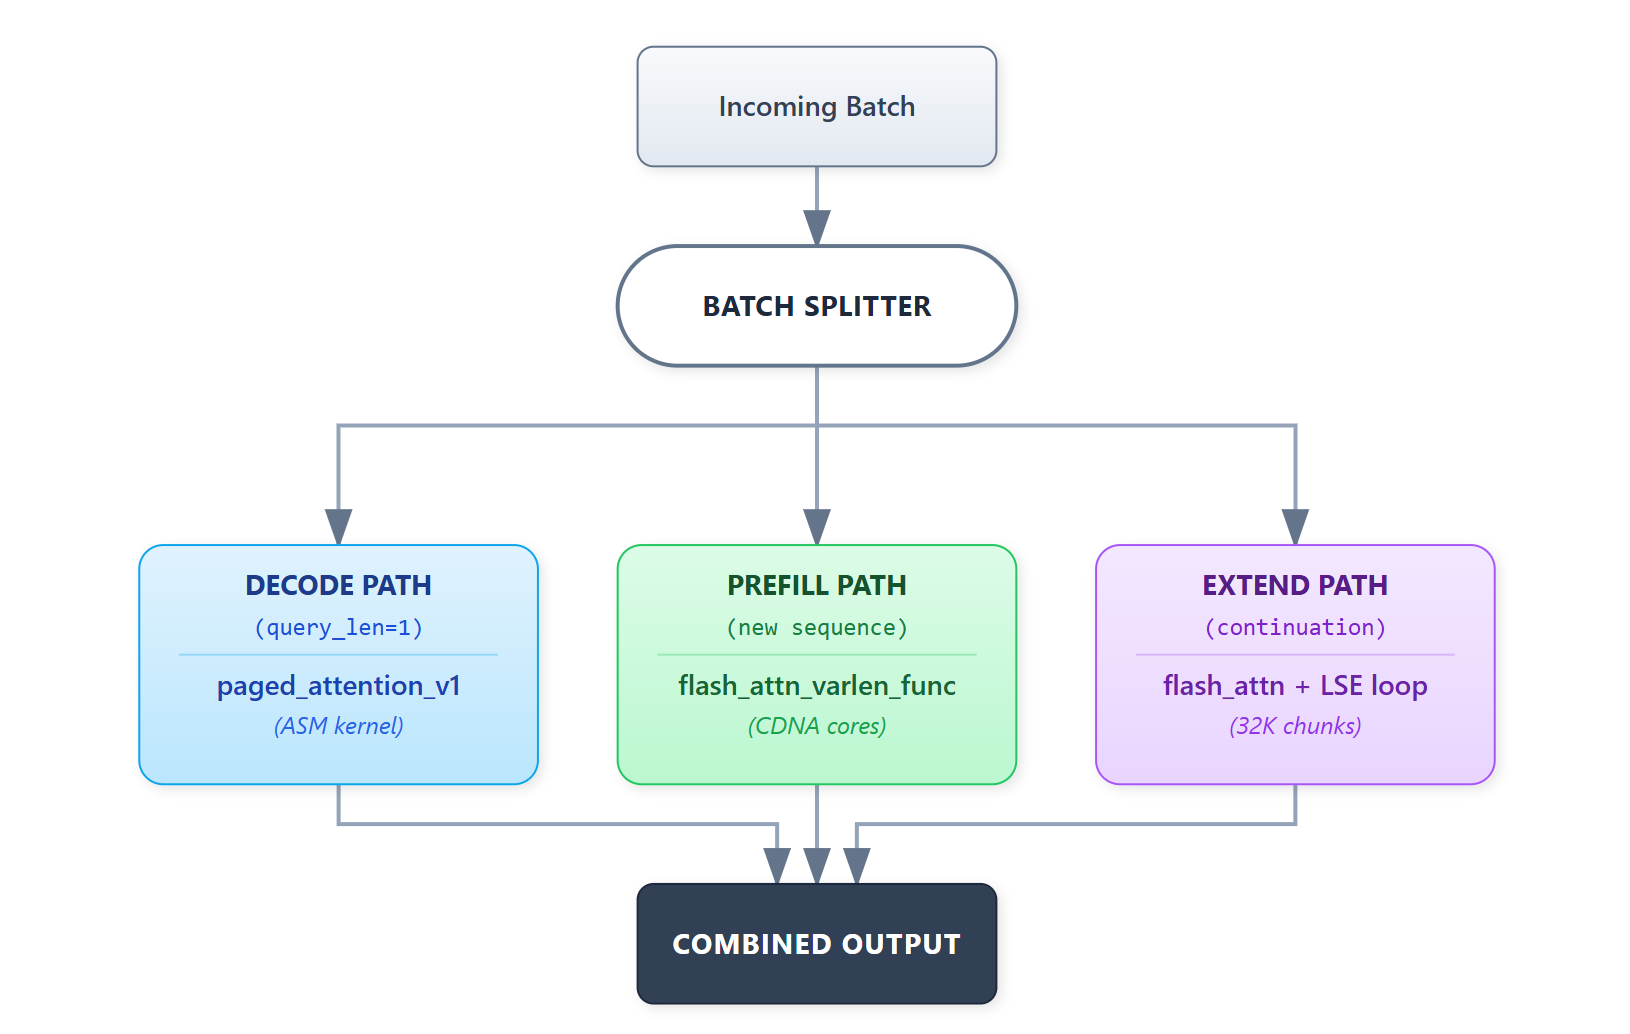
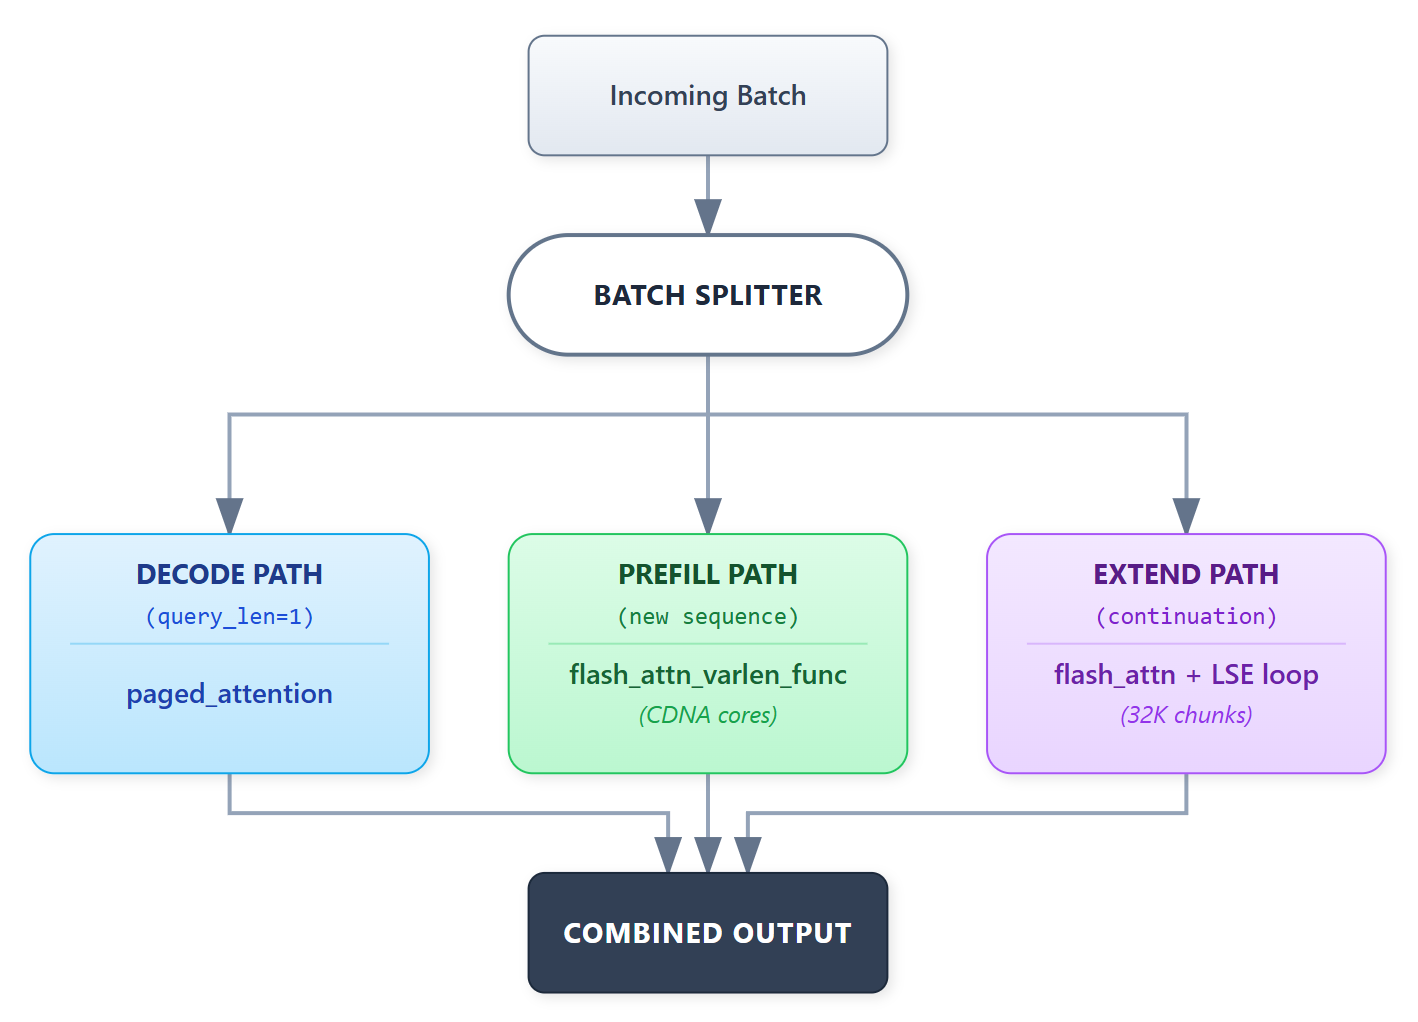
Update blog

diff --git a/_posts/2025-12-16-rocm-attention-backend.md b/_posts/2025-12-16-rocm-attention-backend.md
@@ -161,16 +161,18 @@ vLLM provides two AITER-based MLA backends with different prefill implementation
 | Backend                 | Prefill Kernel | Decode Kernel  |
 | ----------------------- | -------------- | -------------- |
 | `TRITON_MLA`            | vLLM Triton    | vLLM Triton    |
-| `ROCM_AITER_MLA`        | AITER Assembly | AITER Assembly |
-| `ROCM_AITER_TRITON_MLA` | AITER Triton   | AITER Assembly |
+| `ROCM_AITER_MLA`        | AITER MHA (CK on gfx942, ASM on gfx950) | AITER Assembly |
+| `ROCM_AITER_TRITON_MLA` | AITER Triton MHA | AITER Assembly |
 
-The base `TRITON_MLA` backend uses vLLM's default Triton kernels for both phases. The AITER backends replace the decode kernel with hand-tuned assembly (`mla_decode_fwd`), which is where most of the performance gain comes from. Between the two AITER backends, `ROCM_AITER_TRITON_MLA` uses Triton for prefill, offering better occupancy tuning flexibility on CDNA hardware—especially important for long input sequences.
+The base `TRITON_MLA` backend uses vLLM's default Triton kernels for both phases. The AITER backends replace the decode kernel with hand-tuned assembly (`mla_decode_fwd`), which is where most of the performance gain comes from. The only difference between the two AITER backends is the prefill path: `ROCM_AITER_MLA` calls `aiter.flash_attn_varlen_func` (AITER MHA), while `ROCM_AITER_TRITON_MLA` calls `aiter.ops.triton.mha.flash_attn_varlen_func` (AITER Triton MHA). On gfx942 (MI300X/MI325X), AITER MHA resolves to CK kernels; on gfx950 (MI355X), it resolves to the newer assembly MHA kernels.
 
-**Why Triton over CK for MLA prefill?** Two reasons:
+**Why the prefill winner flips by architecture?** Two reasons:
 
-1. **XCD-aware scheduling**: MI300X has 8 XCDs (chiplets). The AITER Triton kernel explicitly remaps head distribution across XCDs via `remap_xcd()`, ensuring balanced load. The CK path doesn't expose this logic at the Python level.
+1. **gfx942 (MI300X/MI325X): XCD-aware scheduling**: The AITER Triton kernel explicitly remaps head distribution across XCDs via `remap_xcd()`, ensuring balanced load. The CK path doesn't expose this logic at the Python level.
 
-2. **Runtime config flexibility**: Triton selects architecture-specific configs at runtime (e.g., `BLOCK_M=128, BLOCK_N=64` for MI300X), while CK uses a fixed set of pre-generated kernels.
+2. **gfx942 (MI300X/MI325X): Runtime config flexibility**: Triton selects architecture-specific configs at runtime (e.g., `BLOCK_M=128, BLOCK_N=64` for MI300X), while CK uses a fixed set of pre-generated kernels.
+
+On **gfx950 (MI355X)**, AITER MHA switches to the assembly kernel, which is hand-tuned for MI355X and tends to beat the Triton MHA path. That is why `ROCM_AITER_MLA` often pulls ahead on TTFT even when TPOT stays close.
 
 ### Absorbed vs Non-Absorbed Recipe
 
@@ -291,7 +293,7 @@ _Output throughput (TPS) shows ROCM_AITER_TRITON_MLA achieving up to 1.5x higher
 | MI325X   | 1.00x                 | 1.04x          | 1.33x      |
 | MI355X   | 1.00x                 | 1.02x          | 1.39x      |
 
-`ROCM_AITER_TRITON_MLA` (Triton prefill + ASM decode) shows marginal TPOT improvement (1-4%) over `ROCM_AITER_MLA` (CK prefill + ASM decode). However, `ROCM_AITER_MLA` achieves the best TTFT on MI355X at 128 concurrency. Both AITER MLA backends deliver similar overall performance—the auto-selected `ROCM_AITER_MLA` is recommended for most workloads. Users who want to squeeze out maximum TPOT can try `ROCM_AITER_TRITON_MLA`.
+`ROCM_AITER_TRITON_MLA` (Triton prefill + ASM decode) shows marginal TPOT improvement (1-4%) over `ROCM_AITER_MLA`. On gfx942, this is mostly Triton beating CK; on gfx950, the gap narrows because `ROCM_AITER_MLA` uses the AITER assembly MHA prefill. `ROCM_AITER_MLA` achieves the best TTFT on MI355X at 128 concurrency. Both AITER MLA backends deliver similar overall performance—the auto-selected `ROCM_AITER_MLA` is recommended for most workloads. Users who want to squeeze out maximum TPOT can try `ROCM_AITER_TRITON_MLA`.
 
 _Note: These benchmarks use uniform request sizes. Production workloads with prefix caching, mixed context lengths, and varied request patterns would exercise the 3-path routing architecture more fully._
 
